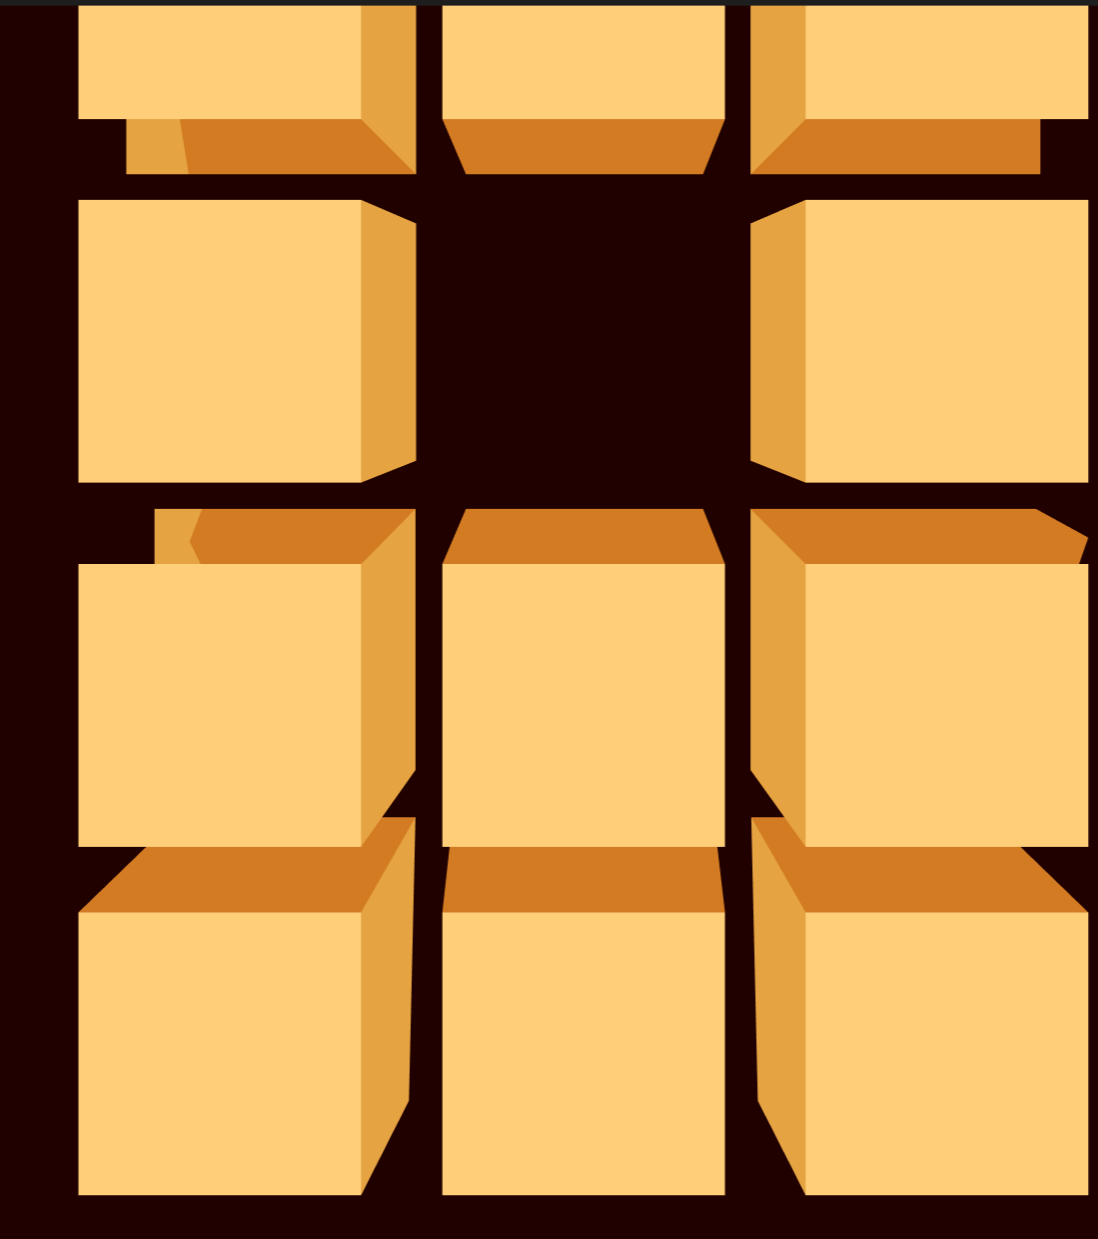
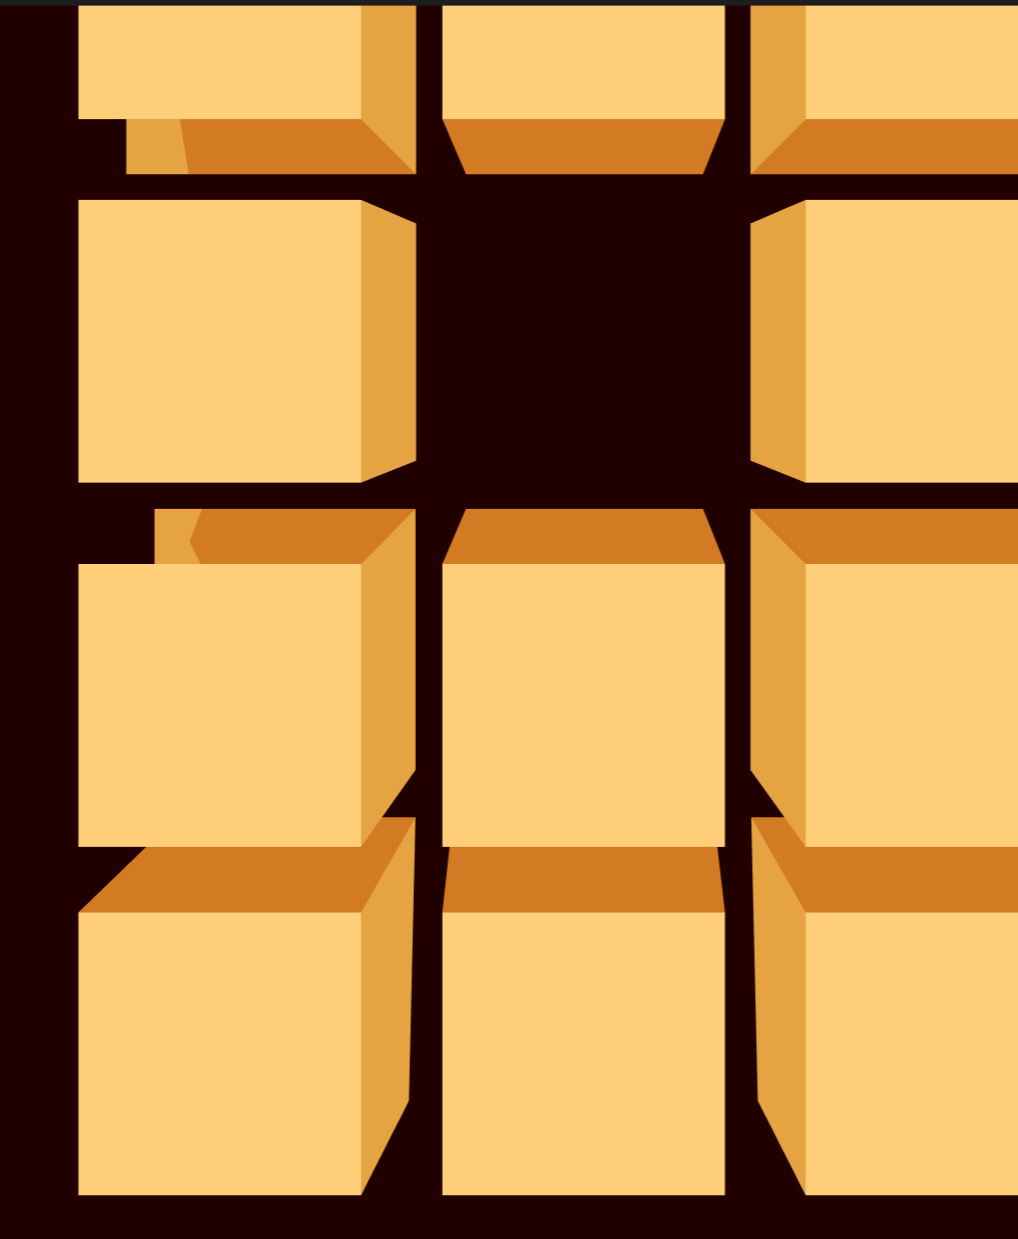
crop background

diff --git a/main.css b/main.css
@@ -1,1 +1,5 @@
 h1{color:fuchsia}
+body{background-image: url("assets/boxes.png");
+    background-size: cover;
+    background-repeat: no-repeat;
+}
